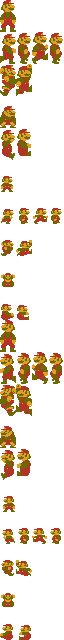
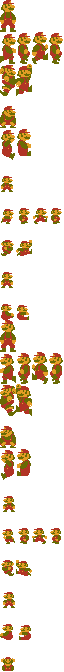
Se creo un salto y animacion de muerte

diff --git a/Mario/src/ClasesPadre/Jugador/Personaje.java b/Mario/src/ClasesPadre/Jugador/Personaje.java
@@ -5,6 +5,7 @@ import java.awt.Graphics;
 import java.awt.image.BufferedImage;
 
 import ClasesPadre.Entidad;
+import Constantes.Constantes;
 import Constantes.Constantes.*;
 
 import java.awt.Rectangle;
@@ -13,13 +14,16 @@ public class Personaje extends Entidad {
     // #region Constantes
     private int gravedad = Globales.GRAVEDAD;
     public int FuerzaSalto = Jugador.MARIO_JUMP_FORCE;
-    private int invensibilityFrames = Jugador.INVENSIBILITY_FRAMES, contInvensibilityFrames = 0;
+    private int invensibilityFrames = Jugador.INVENSIBILITY_FRAMES,
+            velocidadAnimacion = Jugador.MARIO_VELCIDAD_ANIMACION,
+            velocidadAnimacionMuerte = Jugador.CANT_FRAMES_MUERTE;
+    // #endregion
 
     // #region Variables
 
     // *Cada cuantos frames se actualiza la animacion
-    private int velocidadAnimacion = Jugador.MARIO_VELCIDAD_ANIMACION, AccionAnimation = 0, frameAniamcion = 0,
-            contFrames = 0;
+    private int contInvensibilityFrames = 0, AccionAnimation = 0, frameAniamcion = 0,
+            contFrames = 0, contFramesMuerte = 0;
     public BufferedImage[][] animaciones; // * todas las animaciones del personaje
     public Boolean enMovimiento = false, saltando = false, EnSuelo = true; // * Boleanos que determinaran acciones
     public Boolean MovDerecha = false, MovIzquierda = false, MovAbajo = false, MovArriba = false;
@@ -46,18 +50,18 @@ public class Personaje extends Entidad {
 
     // *se encarga de cargar las animaciones del personaje
     public void GetAnimations() {
-        animaciones = animacion(20, 0, 3, 16, 32);
+        animaciones = animacion(21, 0, 3, 16, 32);
     }
 
     // *se encarga de la actualizacion del personaje en acciones
     public void update() {
-        cambiarHitbox();
-        ActualizarPosHitbox();
 
         movimiento();
         ActualizarAccion();
         // *funcion que determina que animacion sigue y que frame de la animacion
         ActualizarFrame();
+        VerificarMuerte();
+        ActHitbox();
         contInvensibilityFrames++;
     }
 
@@ -70,7 +74,7 @@ public class Personaje extends Entidad {
 
     }
 
-    // ?Determina la animacion que sigue
+    // *Determina la animacion que sigue
     public void ActualizarFrame() {
         contFrames++;
         if (accion == AccionPlayer.Quieto || accion == AccionPlayer.Agacharse) {
@@ -95,8 +99,15 @@ public class Personaje extends Entidad {
 
     // *Determina la accion que sigue y su direccion
     public void ActualizarAccion() {
-        int aux = 0;
+        if (vivo == false) {
+            AccionAnimation = 20;
+            accion = AccionPlayer.Quieto;
+            return;
+        }
 
+        int aux = 0;
+        if (pequeño)
+            aux = 5;
         // ! se suman 10 para que se pueda acceder a las animaciones de la izquierda
         accion = AccionPlayer.Quieto;
         // *confimacioines para la animacion y vista de la direccion
@@ -106,16 +117,23 @@ public class Personaje extends Entidad {
 
         } else if (MovIzquierda == true && MovDerecha == false) {
             accion = AccionPlayer.Correr;
-            aux = 10;
+            aux += 10;
         }
         if (MovAbajo == true) {
-            accion = AccionPlayer.Agacharse;
+            if (!pequeño) {
+                accion = AccionPlayer.Agacharse;
+            } else {
+                accion = AccionPlayer.Quieto;
+            }
         }
+
         if (saltando) {
             accion = AccionPlayer.Saltar;
-            if (MovIzquierda == true)
-                aux = 10;
+        }
 
+        if (vivo == false) {
+            accion = AccionPlayer.Quieto;
+            aux = 18;
         }
         // * determina la accion a realizar y su direccion gracias al aux */
         switch (accion) {
@@ -143,7 +161,7 @@ public class Personaje extends Entidad {
     // *se encarga de mover al personaje
     public void movimiento() {
 
-        if (MovAbajo != true) {
+        if (MovAbajo != true && vivo == true) {
 
             if (MovDerecha == true && MovIzquierda == false) {
                 posX += velocidad;
@@ -154,6 +172,13 @@ public class Personaje extends Entidad {
 
             }
         }
+        if (MovArriba == true && MovAbajo == false) {
+            posY -= velocidad;
+        }
+        if (MovAbajo == true && MovArriba == false) {
+            posY += velocidad;
+        }
+
         // Todo Actualizar el sistema de graveddad con mas presision y crear clase
         // vector
         // *Gravedad
@@ -199,8 +224,22 @@ public class Personaje extends Entidad {
     public void HitEnemigo(Rectangle HitboxEnemigo) {
         if (Hitbox.intersects(HitboxEnemigo)) {
             // *Tiempo Entre golpes
+            // *Si esta por encima del enemigo salta sobre el
+            // Todo Que el enemigo reciba el golpe perse
+            if ((Hitbox.y + Hitbox.height) <= (HitboxEnemigo.y + HitboxEnemigo.height)) {
+                FuerzaSalto = Constantes.Jugador.MARIO_JUMP_FORCE;
+                System.out.println("Salto enemigo");
+                return;
+            }
+            // * Sino le hara damage a mario */
             if (contInvensibilityFrames >= invensibilityFrames) {
                 // Todo VolverMarioChiquito con el golpe
+                if (pequeño == false) {
+                    pequeño = true;
+                    System.out.println("Recibio golpe");
+                    contInvensibilityFrames = 0;
+                    return;
+                }
                 vivo = false;
                 System.out.println("Muerto");
                 contInvensibilityFrames = 0;
@@ -208,23 +247,45 @@ public class Personaje extends Entidad {
         }
     }
 
-    public void cambiarHitbox() {
+    // * Se sobre escribio por mas comodidad
+    // * Cambia la posicion de la hitbox y se adapta a la accion
 
+    public void ActHitbox() {
         InicializarHitbox();
-        if (accion == AccionPlayer.Agacharse) {
-
+        int newposy = posY;
+        if (accion == AccionPlayer.Agacharse && !pequeño) {
+            newposy = posY + Jugador.BIG_SPRITE_HEIGTH - Jugador.MARIO_BIG_DOWN_HEIGHT;
             Hitbox = new Rectangle(posX, posY, Jugador.SPRITE_WIDTH,
                     Jugador.MARIO_BIG_DOWN_HEIGHT);
         }
-    }
-
-    // * Se sobre escribio por mas comodidad
-    // * Cambia la posicion de la hitbox y se adapta a la accion
-    public void ActualizarPosHitbox() {
-        int newposy = posY;
-        if (accion == AccionPlayer.Agacharse) {
-            newposy = posY + Jugador.BIG_SPRITE_HEIGTH - Jugador.MARIO_BIG_DOWN_HEIGHT;
+        if (pequeño) {
+            newposy = posY + Jugador.BIG_SPRITE_HEIGTH - Jugador.SMALL_SPRITE_HEIGTH;
+            Hitbox = new Rectangle(posX, posY, Jugador.SPRITE_WIDTH, Jugador.SMALL_SPRITE_HEIGTH);
         }
         Hitbox.setLocation(posX, newposy);
+
     }
+
+    // *Verifica vidas y si se va a morir se pone resetean variables */
+    // Todo Poner Que se ponga en el spanw/
+    public void VerificarMuerte() {
+        if (vivo == false) {
+            if (contFramesMuerte == 0) {
+                FuerzaSalto = 20;
+                EnSuelo = false;
+            }
+
+            contFramesMuerte++;
+            if (contFramesMuerte >= velocidadAnimacionMuerte) {
+                posX = 300;
+                posY = 300;
+                vivo = true;
+                pequeño = false;
+                EnSuelo = true;
+                contFramesMuerte = 0;
+            }
+
+        }
+    }
+
 }

diff --git a/Mario/src/Constantes/Constantes.java b/Mario/src/Constantes/Constantes.java
@@ -30,12 +30,13 @@ public class Constantes {
     public static class Jugador {
         public static final int MARIO_VELC = 2;
         public static final int MARIO_VELCIDAD_ANIMACION = 10;
-        public static final int INVENSIBILITY_FRAMES = 60;
-        public static final int MARIO_JUMP_FORCE = 10;
+        public static final int INVENSIBILITY_FRAMES = 500;
+        public static final int MARIO_JUMP_FORCE = 30;
         public static final int BIG_SPRITE_HEIGTH = 32;
         public static final int SPRITE_WIDTH = 16;
         public static final int SMALL_SPRITE_HEIGTH = 16;
         public static final int MARIO_BIG_DOWN_HEIGHT = 24;
+        public static final int CANT_FRAMES_MUERTE = 120;
     }
 
     public static class Globales {

diff --git a/Mario/src/ClasesPadre/Entidad.java b/Mario/src/ClasesPadre/Entidad.java
@@ -5,6 +5,7 @@ import java.awt.image.BufferedImage;
 import java.awt.Graphics;
 
 import javax.imageio.ImageIO;
+import javax.swing.AbstractAction;
 
 public abstract class Entidad {
 
@@ -51,9 +52,7 @@ public abstract class Entidad {
 
     public abstract void update();
 
-    public void updateFrames(java.awt.Graphics g) {
-        g.drawImage(animaciones[AccionAnimation][frameAniamcion], posX, posY, null);
-    }
+    public abstract void updateFrames(Graphics g);
 
     public abstract void ActualizarFrame();
 

diff --git a/Mario/src/ClasesPadre/Enemigos/Bowser.java b/Mario/src/ClasesPadre/Enemigos/Bowser.java
@@ -62,4 +62,13 @@ public class Bowser extends Entidad {
     protected void InicializarHitbox() {
         Hitbox = new java.awt.Rectangle(posX, posY, 16, 32);
     }
+
+    public void DibujarHitbox(java.awt.Graphics g) {
+        g.drawRect(Hitbox.x, Hitbox.y, Hitbox.width, Hitbox.height);
+    }
+
+    public void updateFrames(java.awt.Graphics g) {
+        g.drawImage(animaciones[AccionAnimation][frameAniamcion], posX, posY, null);
+        
+    }
 }

diff --git a/Mario/src/ClasesPadre/Enemigos/Koopa.java b/Mario/src/ClasesPadre/Enemigos/Koopa.java
@@ -21,6 +21,11 @@ public class Koopa extends Entidad {
         movimiento();
         ActualizarAccion();
         ActualizarFrame();
+        ActualizarPosHitbox();
+    }
+
+    public void updateFrames(java.awt.Graphics g) {
+        g.drawImage(animaciones[AccionAnimation][frameAniamcion], posX, posY, null);
     }
 
     public void movimiento() {

diff --git a/Mario/src/ClasesPadre/Enemigos/KoopaVolador.java b/Mario/src/ClasesPadre/Enemigos/KoopaVolador.java
@@ -15,6 +15,8 @@ public class KoopaVolador extends Koopa {
         ActualizarAccion();
         ActualizarFrame();
     }
+
+
     //Todo añadir las fisicas en caso de estar en el aire y las hitboxes
 
 }
